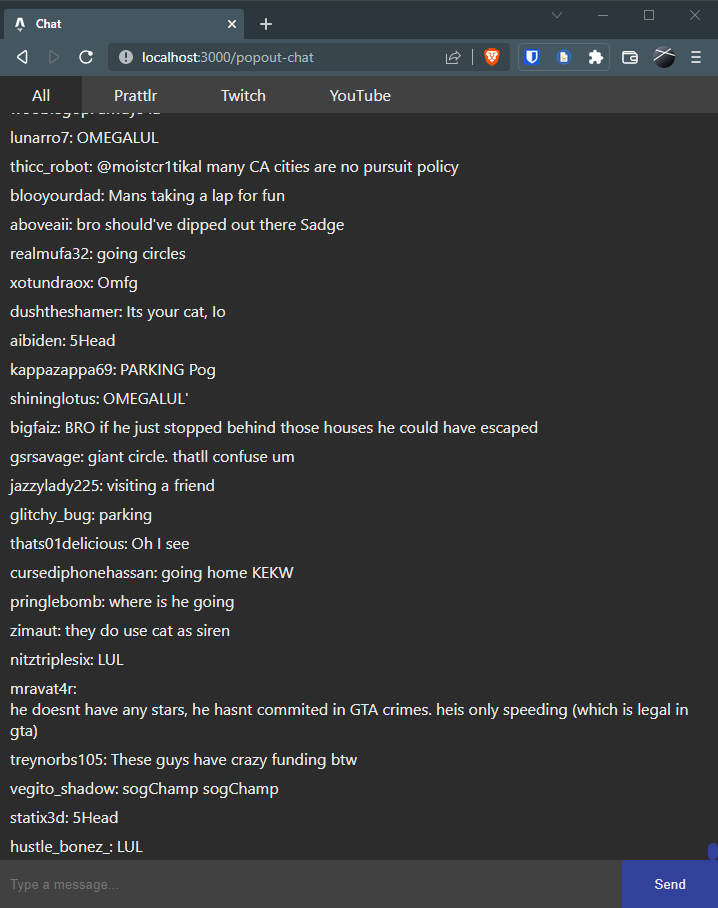
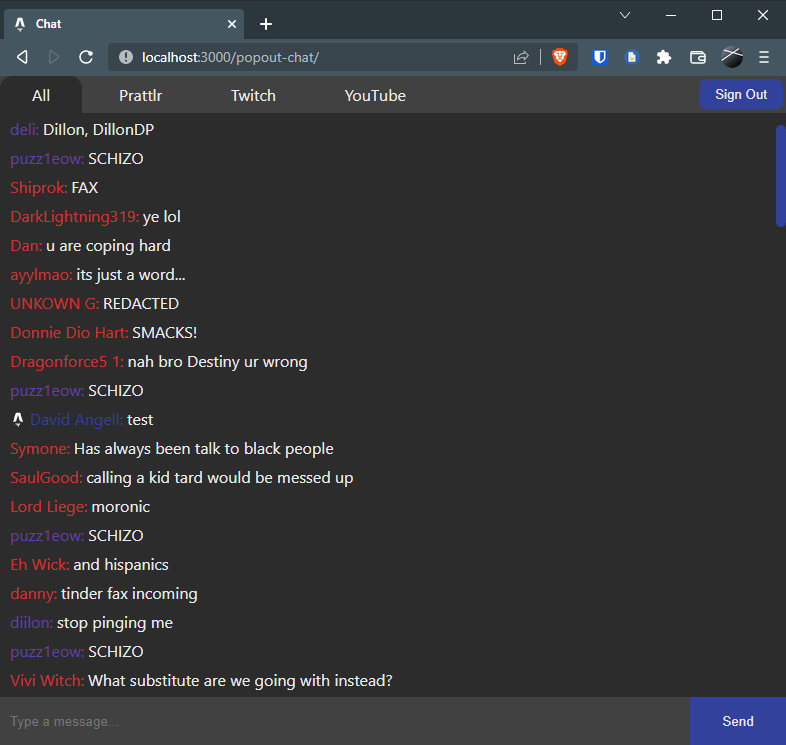
add mod messages and colored names

Changed region(s): [[0.0, 0.0, 1.0, 0.9879], [0.8579, 0.9262, 1.0, 1.0]]

diff --git a/server/src/index.ts b/server/src/index.ts
@@ -11,10 +11,10 @@ import {
 // Channels to join chat for
 const CHANNEL_LIST = {
 	youtube: [
-		// "UC554eY5jNUfDq3yDOJYirOQ"
+		"UC554eY5jNUfDq3yDOJYirOQ"
 	],
 	twitch: [
-		// 'xqc',
+		'xqc',
 	]
 }
 
@@ -59,8 +59,39 @@ adminNamespace.use((socket, next) => {
 
 // Create the moderator namespace
 const modNamespace = io.of("/mod");
-modNamespace.use((socket, next) => {
-  // ensure the user has sufficient rights
+modNamespace.use(async (socket, next) => {
+  try {
+		// Ensure the user has a valid
+		const { accessToken } = socket.handshake.auth;
+		if (!accessToken) {
+			throw new Error("No access token provided");
+		}
+
+		// Ensure the user exists in the database
+		const decodedToken = await getAuth().verifyIdToken(accessToken);
+		if (!decodedToken) {
+			throw new Error("User does not exist");
+		}
+
+		// Ensure the user is a moderator
+		const userRef = db.collection("prattlr-users").doc(decodedToken.uid);
+		const doc = await userRef.get();
+		const docExists = doc.exists;
+
+		if (!docExists) {
+			throw new Error("User does not exist");
+		} else {
+			const userData = doc.data();
+			if (!userData.isMod) {
+				throw new Error("User is not a moderator");
+			}
+		}
+
+		next();
+	} catch (error) {
+		console.log(error);
+		next(new Error(error));
+	}
   next();
 });
 
@@ -70,8 +101,6 @@ const chatterNamespace = io.of("/chatter");
 chatterNamespace.use(async (socket, next) => {
 	try {
 		// Ensure the user has a valid
-		console.log("Chatter request: ");
-		console.log(socket.handshake.auth);
 		const { accessToken } = socket.handshake.auth;
 		if (!accessToken) {
 			throw new Error("No access token provided");
@@ -79,12 +108,9 @@ chatterNamespace.use(async (socket, next) => {
 
 		// Ensure the user exists in the database
 		const authToken = await getAuth().verifyIdToken(accessToken);
-
 		if (!authToken) {
 			throw new Error("User does not exist");
 		}
-
-		console.log(authToken)
 
 		// Ensure the user is not banned
 		// const { banned } = doc.data();
@@ -115,7 +141,7 @@ chatterNamespace.use(async (socket, next) => {
 adminNamespace.on("connection", socket => adminHandler(socket));
 
 // Handle the connection event for the moderator namespace
-modNamespace.on("connection", socket => modHandler(socket));
+modNamespace.on("connection", socket => modHandler(socket, io, db));
 
 // Handle the connection event for the chatter namespace
 chatterNamespace.on("connection", (socket) => chatterHandler(socket, io, db));

diff --git a/server/src/namespaces/moderator.ts b/server/src/namespaces/moderator.ts
@@ -1,6 +1,84 @@
-import { Socket, SocketResponse } from "../types";
+import { Socket, SocketResponse, Message } from "../types";
+const { getAuth } = require('firebase-admin/auth');
 
-export default function modHandler(socket: Socket) {
+interface ValidateUser {
+  isValid: boolean;
+  error?: string;
+  userRef?: any;
+  doc?: any;
+}
+
+async function validateUser(socket: Socket, db: any): Promise<ValidateUser> {
+  try {
+    // Ensure the user has a valid
+    const { accessToken } = socket.handshake.auth;
+    if (!accessToken) {
+      throw new Error("No access token provided");
+    }
+
+    // Ensure the user exists in the database
+    const decodedToken = await getAuth().verifyIdToken(accessToken);
+    if (!decodedToken) {
+      throw new Error("User does not exist");
+    }
+
+    // Ensure the user is a moderator
+    const userRef = db.collection("prattlr-users").doc(decodedToken.uid);
+    const doc = await userRef.get();
+    const docExists = doc.exists;
+
+    if (!docExists) {
+      throw new Error("User does not exist");
+    }
+
+    if (!doc.data().isMod) {
+      throw new Error("User is not a moderator");
+    }
+
+    return {
+      isValid: true,
+      userRef,
+      doc,
+    };
+
+  } catch (error) {
+    return {
+      isValid: false,
+      error: error.message,
+    };
+  }
+}
+
+export default function modHandler(socket: Socket, io: any, db: any) {
   socket.emit("connection established");
   socket.join("moderator");
+
+  socket.on("moderator-message", async (message, callback: (i: SocketResponse<Message>) => void) => {
+    try {
+
+      // Validate the user
+      const { 
+        isValid, 
+        error, 
+        userRef, 
+        doc 
+      } = await validateUser(socket, db);
+
+      if (!isValid) {
+        throw new Error(error);
+      }
+
+      // Save message to database
+      await userRef.update({
+        logs: [...doc.data().logs, message],
+      });
+
+      // Send message to all clients
+      io.emit("message", { error: false, content: message } as SocketResponse<Message>);
+      callback({ error: false });
+    } catch (error) {
+      console.log(error);
+      callback({ error: true, content: error });
+    }
+  });
 }

diff --git a/client/src/components/Message.tsx b/client/src/components/Message.tsx
@@ -1,17 +1,38 @@
 import { Message } from "../types";
 import styles from "./Message.module.css";
+import { useEffect, useState } from "react";
+import { MenuItem, useMenuState, ControlledMenu } from '@szhsin/react-menu';
 
-interface ChatInputProps {
+interface MessageProps {
 	message: Message;
 	showTimestamps?: false;
+	setAnchorPoint: (point: { x: number, y: number }) => void;
+	toggleMenu: (state: boolean) => void;
 }
 
-export default function Message({ message, showTimestamps }: ChatInputProps) {
+export default function Message({ message, showTimestamps, setAnchorPoint, toggleMenu }: MessageProps) {
+	const platformClass = (() => {
+		if (message.user.fromPrattlr) {
+			return "prattlr";
+		} else if (message.user.fromTwitch) {
+			return "twitch";
+		} else if (message.user.fromYoutube) {
+			return "youtube";
+		}
+	})();
+
 	return <>
-		<div className={styles["message"]}>
+		<div 
+			className={styles["message"]}
+			onContextMenu={e => {
+						e.preventDefault();
+						setAnchorPoint({ x: e.clientX, y: e.clientY });
+						toggleMenu(true);
+				}}
+			>
 			{ message.user.fromPrattlr && <img src="/favicon.svg"></img>}
-			{ showTimestamps && <div className={styles["timestamp"]}>{message.timestamp}</div> }
-			<span className={styles["message-text"]}>{message.user.name}:</span>
+			{/* { showTimestamps && <div className={styles["timestamp"]}>{message.timestamp}</div> } */}
+			<span className={`${styles["message-text"]} ${styles[platformClass]}`}>{message.user.name}:</span>
 			<span className={styles["message-text"]}>{message.content}</span>
 		</div>
 	</>

diff --git a/client/src/components/MessageList.tsx b/client/src/components/MessageList.tsx
@@ -2,6 +2,8 @@ import Message from "./Message";
 import { Message as MessageType } from "../types";
 import useChatScroll from "@hooks/useChatScroll";
 import styles from "./MessageList.module.css";
+import { useEffect, useState } from "react";
+import { MenuItem, useMenuState, ControlledMenu } from '@szhsin/react-menu';
 
 interface MessageListProps {
   messages: MessageType[];
@@ -11,15 +13,29 @@ interface MessageListProps {
 
 export default function MessageList({ messages, showTimestamps, forceScroll }: MessageListProps) {
   const ref = useChatScroll(messages);
+  const [menuProps, toggleMenu] = useMenuState();
+	const [anchorPoint, setAnchorPoint] = useState({ x: 0, y: 0 });
   
   return <>
     <div ref={(forceScroll) ? ref : null} className={styles["message-list"]}>
       {
         messages.map((message, index) => {
-          return <Message key={index} message={message} />
+          return <Message 
+              key={index} 
+              message={message} 
+              setAnchorPoint={setAnchorPoint}
+              toggleMenu={toggleMenu}
+            />
         })
       }
       <div id={styles["anchor"]}></div>
+      <ControlledMenu {...menuProps} anchorPoint={anchorPoint}
+					direction="right" onClose={() => toggleMenu(false)}
+			>
+					<MenuItem>Cut</MenuItem>
+					<MenuItem>Copy</MenuItem>
+					<MenuItem>Paste</MenuItem>
+			</ControlledMenu>
     </div>
   </>
 }

diff --git a/server/src/namespaces/chatter.ts b/server/src/namespaces/chatter.ts
@@ -1,4 +1,5 @@
 import { Socket, SocketResponse, Message } from "../types";
+const { getAuth } = require('firebase-admin/auth');
 
 export default function chatterHandler(socket: Socket, io: any, db: any) {
   socket.emit("connection established");
@@ -6,16 +7,27 @@ export default function chatterHandler(socket: Socket, io: any, db: any) {
 
   socket.on("chatter-message", async (message, callback: (i: SocketResponse<Message>) => void) => {
     try {
-      console.log("Chatter message: ", message);
+      // Ensure the user has a valid
+      const { accessToken } = socket.handshake.auth;
+      if (!accessToken) {
+        throw new Error("No access token provided");
+      }
+
+      // Ensure the user exists in the database
+      const decodedToken = await getAuth().verifyIdToken(accessToken);
+      if (!decodedToken) {
+        throw new Error("User does not exist");
+      }
 
       // Save message to database
-      const userRef = db.collection("prattlr-users").doc(message.user.id);
+      const userRef = db.collection("prattlr-users").doc(decodedToken.uid);
       const doc = await userRef.get()
       const docExists = doc.exists;
 
       if (!docExists) {
         await userRef.set({
-          id: message.user.id,
+          id: decodedToken.uid,
+          authToken: accessToken,
           name: message.user.name,
           pfp: message.user.pfp,
           fromTwitch: false,

diff --git a/client/src/components/Message.module.css b/client/src/components/Message.module.css
@@ -6,6 +6,12 @@
   align-items: center;
   max-width: 100%;
   overflow: hidden;
+  transition: all 0.15s ease-in;
+}
+
+.message:hover {
+  cursor: pointer;
+  background-color: var(--background-alt);
 }
 
 .message-text {
@@ -20,4 +26,16 @@
 .message img {
   height: 1rem;
   margin: 0 0.125rem;
+}
+
+.youtube {
+  color: var(--youtube) !important;
+}
+
+.twitch {
+  color: var(--twitch) !important;
+}
+
+.prattlr {
+  color: var(--theme-main) !important;
 }

diff --git a/client/src/global.css b/client/src/global.css
@@ -5,6 +5,9 @@
   --background-alt: rgb(65, 65, 65);
   --theme-main: rgb(49, 65, 156);
   --theme-secondary: rgb(72, 90, 190);
+
+  --youtube: rgb(207, 49, 49);
+  --twitch: rgb(100, 65, 165);
 }
 html {
   font-family: -apple-system, BlinkMacSystemFont, 'Segoe UI', 'Roboto', 'Oxygen',

diff --git a/README.md b/README.md
@@ -56,7 +56,7 @@ Prattlr is a multi-chat application that allows streamers to connect with their 
 - [x] Add Firebase database for chat logs
 - [ ] Add logs viewer
 - [ ] Add moderation tools
-- [ ] Add chat badges and name colors
+- [x] Add chat badges and name colors
 - [ ] Add custom handles
 - [ ] Add chat commands
 - [ ] Get BetterTTV and FrankerFaceZ emotes working
